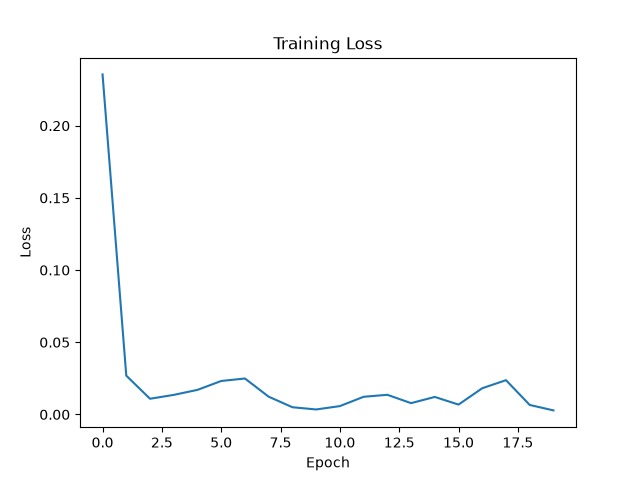
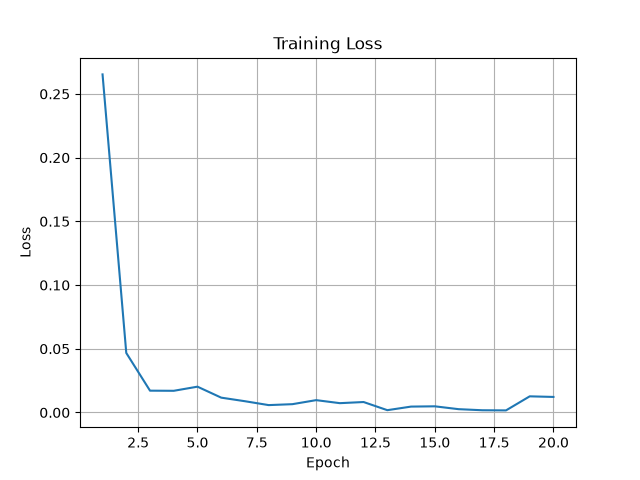
Improve training visualization and plot formatting

diff --git a/src/train.py b/src/train.py
@@ -75,18 +75,20 @@ for epoch in range(NUM_EPOCHS):
         print("Best model saved.")
 
 plt.figure()
-plt.plot(train_losses)
+plt.plot(range(1,NUM_EPOCHS+1),train_losses)
 plt.title("Training Loss")
 plt.xlabel("Epoch")
 plt.ylabel("Loss")
+plt.grid(True)
 plt.savefig("results/plots/train_loss.png")
 plt.close()
 
 plt.figure()
-plt.plot(val_accuracies)
+plt.plot(range(1,NUM_EPOCHS+1),val_accuracies)
 plt.title("Validation Accuracy")
 plt.xlabel("Epoch")
 plt.ylabel("Accuracy")
+plt.grid(True)
 plt.savefig("results/plots/val_accuracy.png")
 plt.close()
 